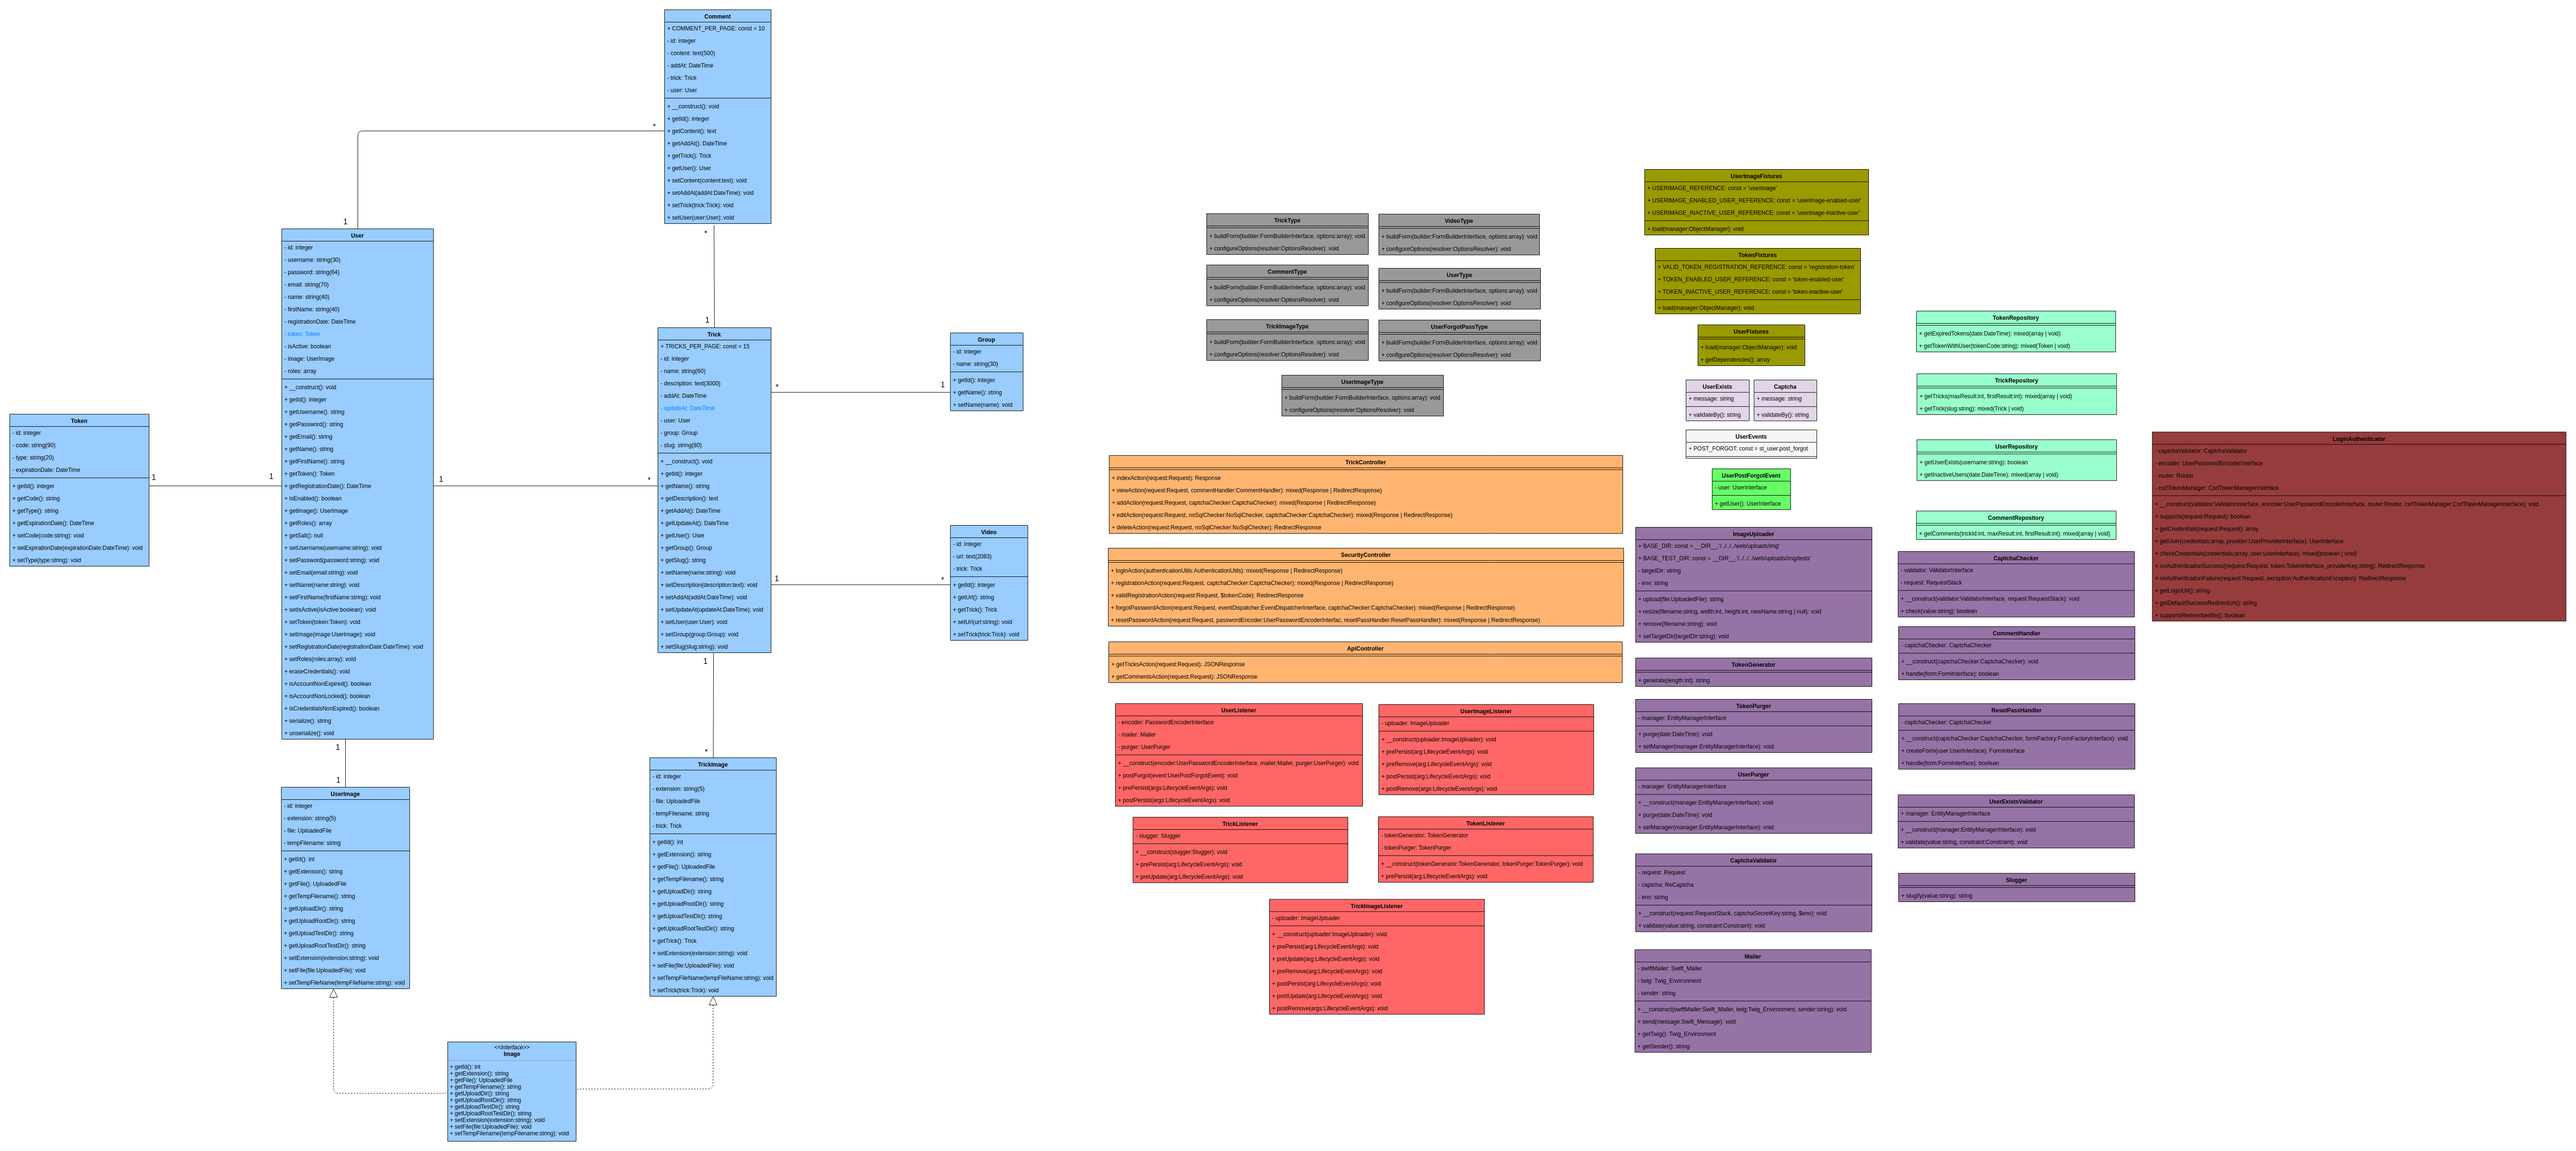
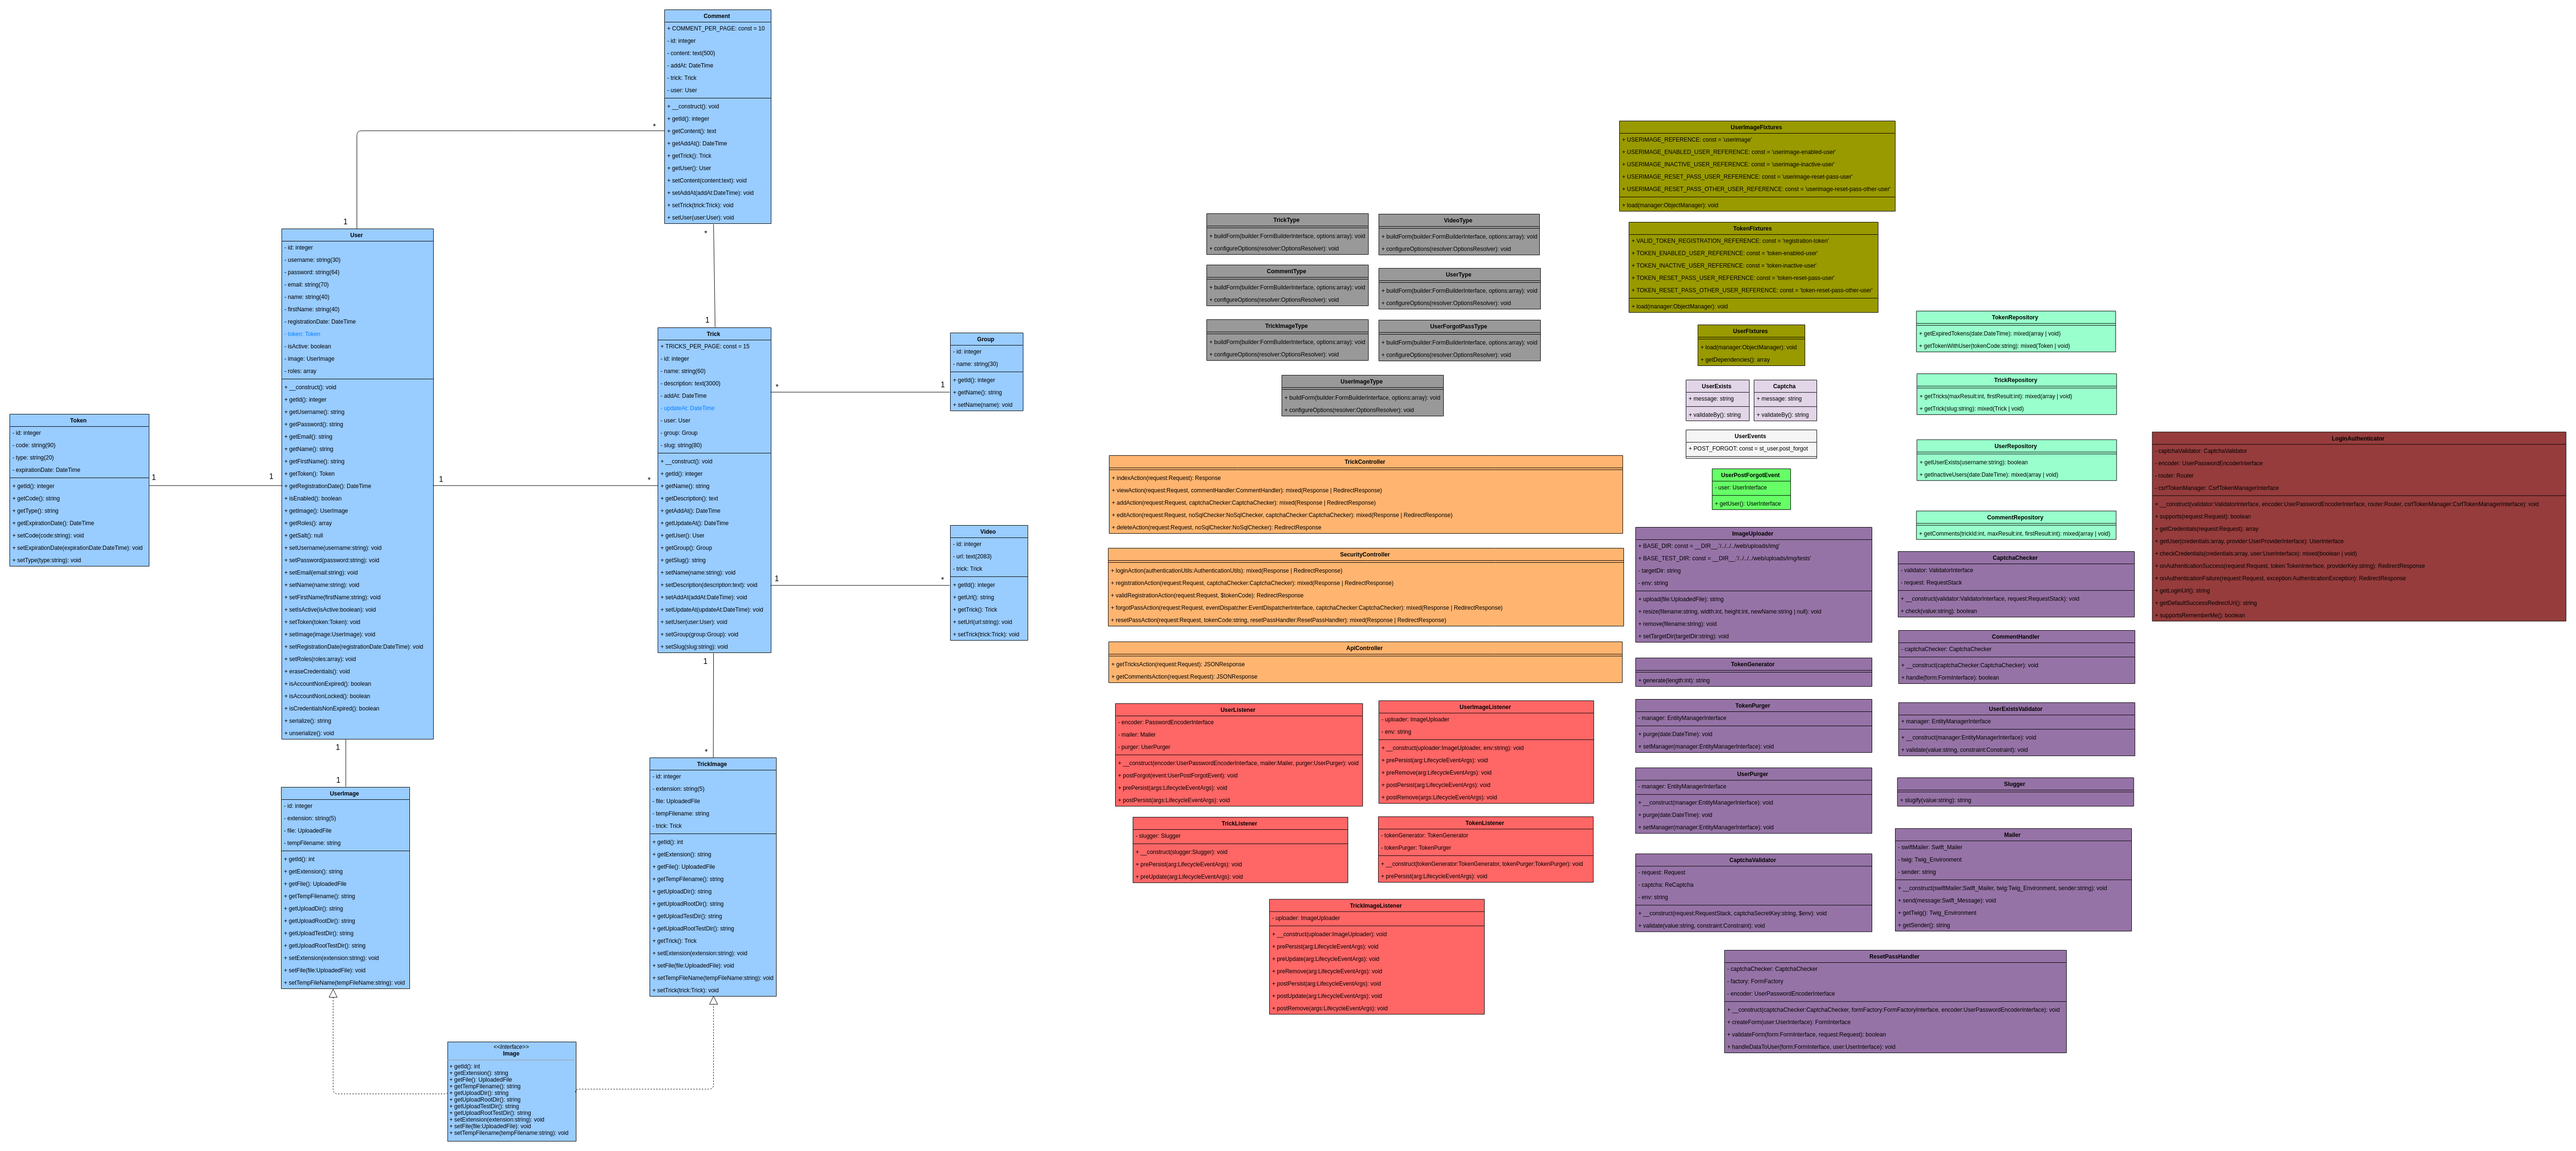
Delete validAndHandle method of ResetPassHandler and create two new methods : validateForm and handleDateToUser, update diagrams

diff --git a/src/AppBundle/Handler/ResetPassHandler.php b/src/AppBundle/Handler/ResetPassHandler.php
@@ -106,22 +106,34 @@ class ResetPassHandler
      * @access public
      * @param FormInterface $form
      * @param Request $request
-     * @param UserInterface $user
+     * 
      * @return boolean
      */
-    public function validAndHandle(FormInterface $form, Request $request, UserInterface $user)
+    public function validateForm(FormInterface $form, Request $request)
     {
         $form->handleRequest($request);
 
         if ($form->isSubmitted() && $this->captchaChecker->check() && $form->isValid()) {
-            $data = $form->getData();
             
-            $encode = $this->encoder->encodePassword($user, $data['password']);
-            $user->setPassword($encode);
-
             return true;
         } 
 
         return false;
+    }
+
+    /**
+     * Set password encode to User
+     * @access public
+     * @param FormInterface $form
+     * @param UserInterface $user
+     * 
+     * @return void
+     */
+    public function handleDataToUser(FormInterface $form, UserInterface $user)
+    {
+        $data = $form->getData();
+            
+        $encode = $this->encoder->encodePassword($user, $data['password']);
+        $user->setPassword($encode);
     }
 }

diff --git a/src/AppBundle/Controller/SecurityController.php b/src/AppBundle/Controller/SecurityController.php
@@ -209,7 +209,9 @@ class SecurityController extends Controller
         $user = $token->getUser();
         $form = $handler->createForm($user);
 
-        if ($handler->validAndHandle($form, $request, $user)) {
+        if ($handler->validateForm($form, $request)) {
+            
+            $handler->handleDataToUser($form, $user);
             $em->remove($token);
 
             try {
